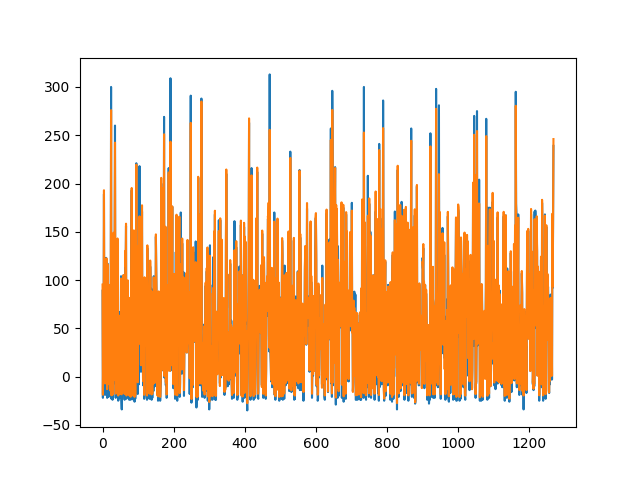
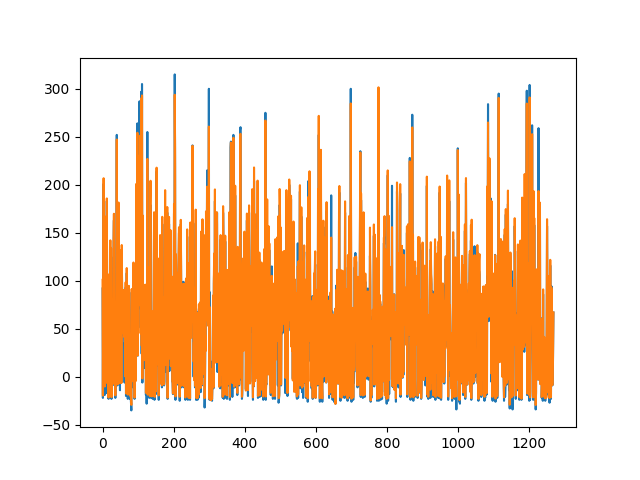
m

diff --git a/exportData.py b/exportData.py
@@ -1,5 +1,7 @@
 import numpy as np
 import matplotlib.pyplot as plt
+
+# plt.switch_backend("agg")
 import openpyxl
 
 from Mesure_regression import NSE, R2, MAE, RMSE, MAX_ERROR
@@ -70,14 +72,17 @@ def printResult(y_test, y_prd, stepDays, folderName):
     output_excel_path = folderName + "/" + str(filename) + ".csv"
     output_Excel(input_detail, output_excel_path)
 
-    # plotResult(y_test, y_prd, folderName + "/" + str(filename))
+    plotResult(y_test, y_prd, folderName + "/" + str(filename))
 
 
 def plotResult(y_test, y_prd, imglnk):
-    plt.plot(y_test)
-    plt.plot(y_prd)
-    plt.savefig(imglnk)
-    # plt.show()
+    try:
+        plt.plot(y_test)
+        plt.plot(y_prd)
+        plt.savefig(imglnk)
+        # plt.show()
+    except:
+        pass
 
 
 def output_Excel(input_detail, output_excel_path):

diff --git a/lstmModel.py b/lstmModel.py
@@ -3,8 +3,6 @@ from tensorflow.keras.layers import Dense, Dropout, LSTM
 import os
 from getData import loadData, y_scaler
 from exportData import printResult
-from openpyxl import Workbook
-import time
 
 
 trainFile = "dataset\Train_data_WL_RF_21_22.csv"
